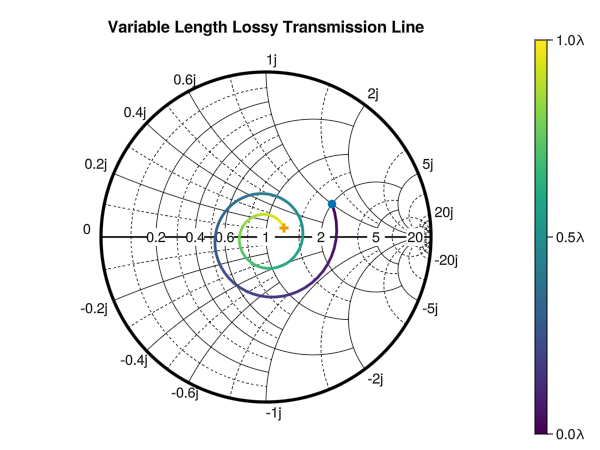
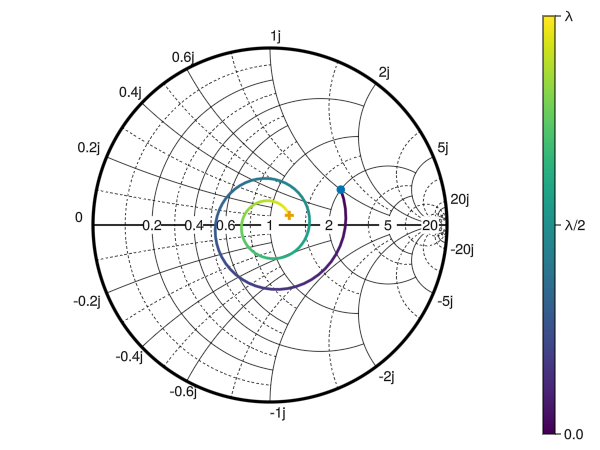
correct errors

Changed region(s): [[0.12, 0.0311, 0.81, 0.9333], [0.87, 0.0311, 0.99, 0.9956]]

diff --git a/README.md b/README.md
@@ -33,11 +33,14 @@ smithplot!(ax, z, reflection = false, color = 1:101, freq = 3.0e9 * ones(length(
 smithscatter!(ax, [z[1]], markersize = 12.0)
 smithscatter!(ax, [z[end]], markersize = 12.0, marker = :cross)
 # Colorbar representing the length of the line
-Colorbar(fig[1,2], limits = (l[1]/λ, l[end]/λ), ticks = ([0.0, 0.5, 1.0], ["0.0λ", "0.5λ", "1.0λ"]))
+Colorbar(fig[1,2], limits = (l[1]/λ, l[end]/λ), ticks = ([0.0, 0.5, 1.0], ["0.0", "λ/2", "λ"]))
 # Activate Data Inspector
 DataInspector(fig)
 fig
 ```
+
+![SmithChartExample](Images/smithplot_color.png)
+
 
 ## Integration with Makie Utilities
 
@@ -91,8 +94,6 @@ fig
 ![slidergif](Images/sliders.gif)
 
 ## Plot Reflection Coefficientes
-
-![SmithChartExample](Images/smithplot_color.png)
 
 You can also draw reflection data with the `reflection = true` keyword. This is useful, for example, when you want to visualize the S-parameters of a simulation or measurement.
 
